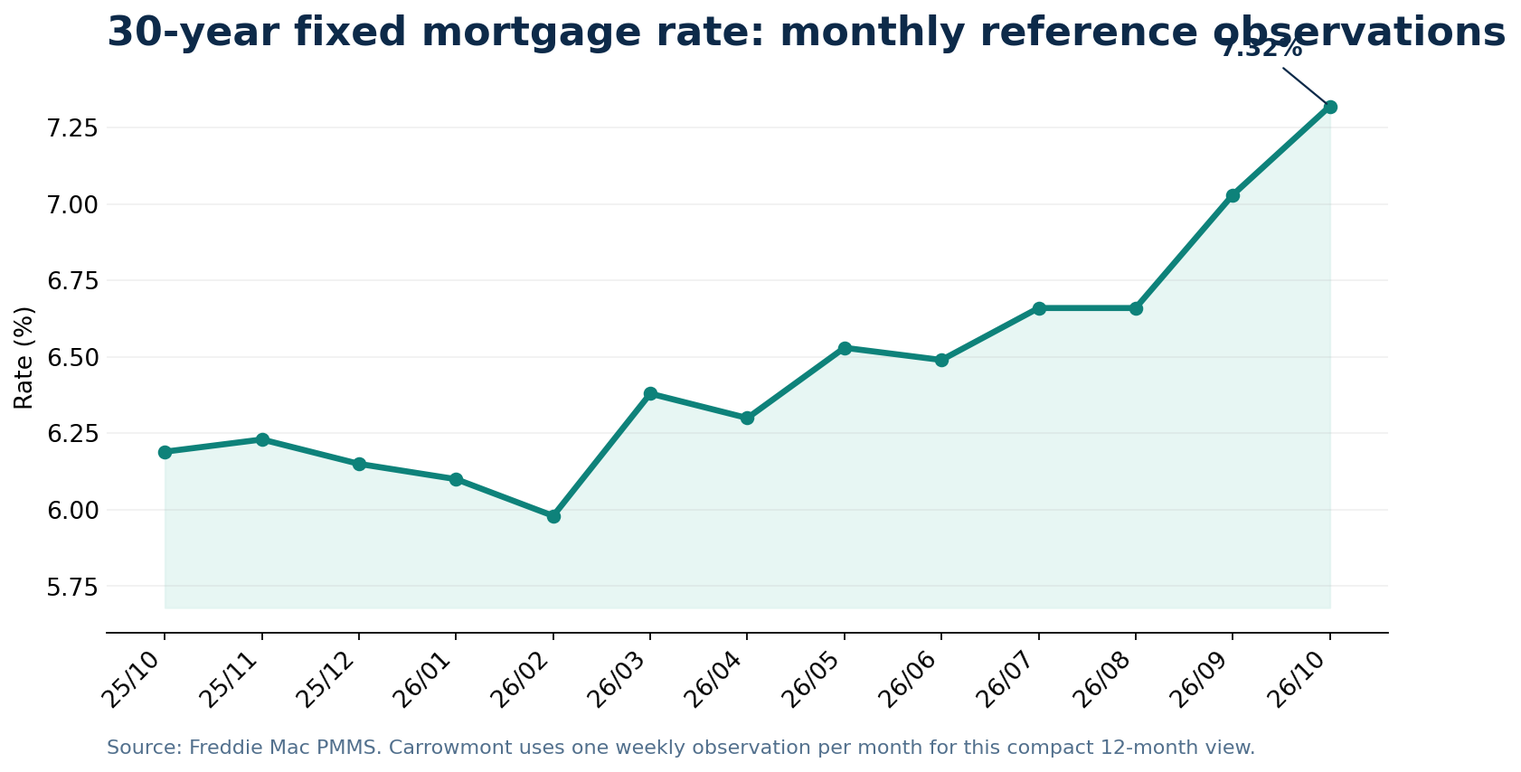
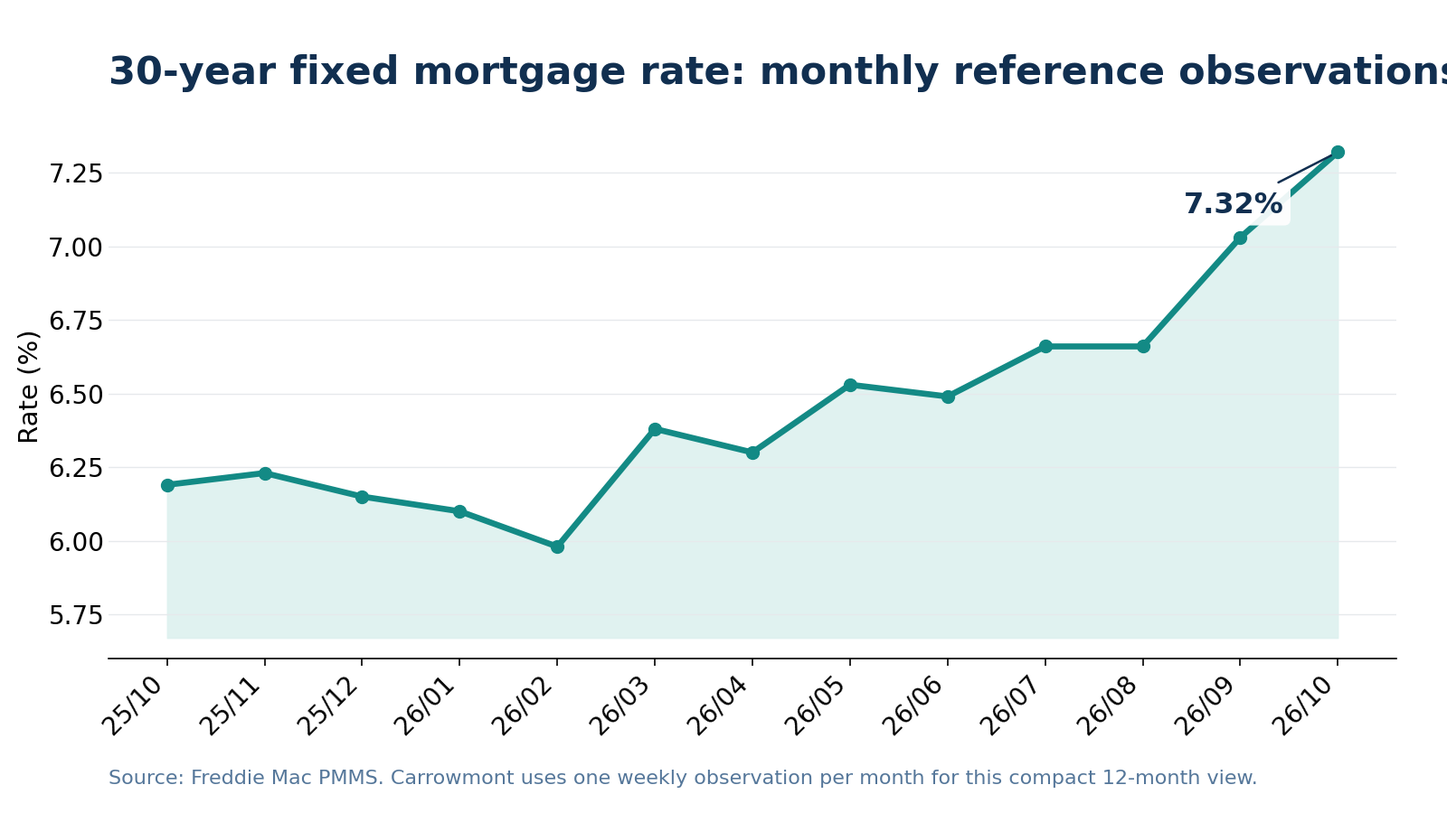
Polish TRAFFIC1A mortgage rate chart label

diff --git a/research/mortgage-affordability-monitor.html b/research/mortgage-affordability-monitor.html
@@ -1,1 +1,1 @@
-<!doctype html><html lang="en"><head><meta charset="utf-8"><meta name="viewport" content="width=device-width,initial-scale=1"><title>U.S. Mortgage Affordability Monitor | Carrowmont Research</title><meta name="description" content="See how current U.S. mortgage rates change monthly principal-and-interest payments, with new-home price and household-income context."><meta name="robots" content="index,follow"><link rel="canonical" href="https://carrowmont.com/research/mortgage-affordability-monitor.html"><link rel="icon" href="/favicon.svg" type="image/svg+xml"><meta property="og:site_name" content="Carrowmont"><meta property="og:title" content="U.S. Mortgage Affordability Monitor | Carrowmont Research"><meta property="og:description" content="At 7.32%, a standardized $400,000 30-year mortgage costs about $300 more per month in principal and interest than at the comparable rate a year earlier."><meta property="og:type" content="article"><meta property="og:url" content="https://carrowmont.com/research/mortgage-affordability-monitor.html"><meta property="og:image" content="https://carrowmont.com/assets/research/mortgage-affordability-monitor-payment-pressure.png"><meta property="og:image:width" content="1600"><meta property="og:image:height" content="900"><meta name="twitter:card" content="summary_large_image"><meta property="article:published_time" content="2026-10-23"><meta property="article:modified_time" content="2026-10-23"><link rel="stylesheet" href="/carrowmont.css?v=20261023-traffic1a"><link rel="stylesheet" href="/research.css?v=20261023-traffic1a"><script type="application/ld+json">{"@context":"https://schema.org","@graph":[{"@type":"Article","headline":"U.S. Mortgage Affordability Monitor","description":"A data-led Carrowmont study of mortgage-rate payment sensitivity, new-home prices and household-income context in the United States.","datePublished":"2026-10-23","dateModified":"2026-10-23","author":{"@type":"Organization","name":"Carrowmont","url":"https://carrowmont.com/about.html"},"publisher":{"@type":"Organization","name":"Carrowmont","url":"https://carrowmont.com/"},"mainEntityOfPage":"https://carrowmont.com/research/mortgage-affordability-monitor.html","image":"https://carrowmont.com/assets/research/mortgage-affordability-monitor-payment-pressure.png"},{"@type":"Dataset","name":"Carrowmont U.S. Mortgage Affordability Monitor calculation dataset","description":"Carrowmont-derived payment-sensitivity calculations plus cited U.S. mortgage-rate, new-home-price and household-income reference values.","url":"https://carrowmont.com/research/mortgage-affordability-monitor.html","creator":{"@type":"Organization","name":"Carrowmont"},"dateModified":"2026-10-23","spatialCoverage":"United States","distribution":{"@type":"DataDownload","encodingFormat":"text/csv","contentUrl":"https://carrowmont.com/data/research/mortgage-affordability-monitor.csv"}},{"@type":"BreadcrumbList","itemListElement":[{"@type":"ListItem","position":1,"name":"Carrowmont","item":"https://carrowmont.com/"},{"@type":"ListItem","position":2,"name":"Research","item":"https://carrowmont.com/research.html"},{"@type":"ListItem","position":3,"name":"Mortgage Affordability Monitor","item":"https://carrowmont.com/research/mortgage-affordability-monitor.html"}]}]}</script></head><body class="research-page"><header class="site-header"><div class="shell header-inner"><a class="brand" href="/" aria-label="Carrowmont home"><span class="brand-name">CARROWMONT</span><span class="brand-rule" aria-hidden="true"></span><span class="brand-tagline"><span>Plan today.</span><strong>Build a brighter tomorrow.</strong></span></a><nav class="desktop-nav" aria-label="Primary navigation"><a href="/#plan">Plan</a><a href="/tools.html">Tools</a><a href="/learn.html">Learn</a><a href="/research.html" aria-current="page">Research</a><a href="/methodology.html">Methodology</a><a href="/about.html">About</a><a href="/">Home</a></nav><details class="mobile-nav"><summary aria-label="Open navigation">Menu</summary><div class="mobile-nav-panel"><a href="/#plan">Plan</a><a href="/tools.html">Tools</a><a href="/learn.html">Learn</a><a href="/research.html" aria-current="page">Research</a><a href="/methodology.html">Methodology</a><a href="/about.html">About</a><a href="/">Home</a><a href="/contact.html">Contact</a></div></details></div></header><main><section class="research-hero"><div class="research-shell"><span class="research-kicker">CARROWMONT RESEARCH · UNITED STATES</span><h1>Mortgage Affordability Monitor</h1><p class="research-dek">How much does today's mortgage-rate environment change the monthly payment on the same loan, and how does that compare with recent new-home prices and household income?</p><div class="research-meta"><span><strong>Published:</strong> 23 October 2026</span><span><strong>Mortgage rate:</strong> Freddie Mac PMMS, 22 Oct 2026</span><span><strong>Home price:</strong> Census/HUD, Aug 2026</span><span><strong>Income:</strong> Census 2025</span></div><span class="research-context">United States data · USD · 30-year fixed-rate illustration</span></div></section><section class="research-main"><div class="research-shell"><div class="research-finding">At the current <strong>7.32%</strong> Freddie Mac 30-year fixed reference rate, a standardized <strong>$400,000 mortgage</strong> produces about <strong>$2,748/month</strong> in principal and interest — roughly <strong>$300 more per month</strong> than at the comparable 6.19% rate one year earlier.</div><div class="metric-grid"><div class="metric-card"><span>30-year fixed PMMS</span><strong>7.32%</strong><small>Freddie Mac, 22 Oct 2026</small></div><div class="metric-card"><span>$400k monthly P&amp;I</span><strong>$2,748</strong><small>About 12.3% above the year-ago-rate illustration</small></div><div class="metric-card"><span>Median new-home price</span><strong>$393.7k</strong><small>Census/HUD, Aug 2026</small></div><div class="metric-card"><span>P&amp;I / median gross income</span><strong>29.7%</strong><small>20% down on the median new-home reference; not lender DTI</small></div></div><section class="research-card"><h2>What a one-percentage-point rate move changes</h2><p>A one-point mortgage-rate move changes the payment even when the loan balance is identical. The chart keeps the loan at $400,000 and the term at 30 years so the rate effect stays visible.</p><figure class="research-chart"><img src="/assets/research/mortgage-affordability-monitor-payment-pressure.png" width="1600" height="900" alt="Bar chart showing monthly principal-and-interest payment on a 400,000 dollar 30-year mortgage at 6.19, 6.32, 7.32 and 8.32 percent rates."><figcaption class="research-caption">Carrowmont calculation. Principal and interest only. The current ±1 percentage-point scenarios are sensitivity illustrations, not rate forecasts or lender quotes.</figcaption></figure><div class="research-table-wrap"><table class="research-table"><thead><tr><th>Loan balance</th><th class="num">6.32%</th><th class="num">7.32% current</th><th class="num">8.32%</th></tr></thead><tbody><tr><td>$200,000</td><td class="num">$1,241</td><td class="num"><strong>$1,374</strong></td><td class="num">$1,512</td></tr><tr><td>$300,000</td><td class="num">$1,861</td><td class="num"><strong>$2,061</strong></td><td class="num">$2,269</td></tr><tr><td>$400,000</td><td class="num">$2,481</td><td class="num"><strong>$2,748</strong></td><td class="num">$3,025</td></tr><tr><td>$500,000</td><td class="num">$3,101</td><td class="num"><strong>$3,435</strong></td><td class="num">$3,781</td></tr><tr><td>$750,000</td><td class="num">$4,652</td><td class="num"><strong>$5,152</strong></td><td class="num">$5,671</td></tr></tbody></table></div></section><section class="research-card"><h2>The rate moved more than the home-price reference</h2><p>The current 30-year fixed PMMS reference is 1.13 percentage points above the comparable Freddie Mac observation from 23 October 2025. Separately, Census/HUD reports the August 2026 median new-house sale price at $393,700; its current release shows that figure below the revised August 2025 comparison. The two series measure different things, but together they show why purchase-price changes alone do not describe financing affordability.</p><figure class="research-chart"><img src="/assets/research/mortgage-affordability-monitor-rate-trend.png" width="1600" height="900" alt="Line chart showing monthly reference observations of the Freddie Mac 30-year fixed mortgage rate from October 2025 through October 2026."><figcaption class="research-caption">Freddie Mac PMMS monthly reference observations. One weekly survey observation is shown per month for a compact view.</figcaption></figure><details><summary>Rate data table</summary><div class="research-table-wrap"><table class="research-table"><thead><tr><th>PMMS date</th><th class="num">30-year fixed rate</th></tr></thead><tbody><tr><td>2025-10-23</td><td class="num">6.19%</td></tr><tr><td>2025-11-26</td><td class="num">6.23%</td></tr><tr><td>2025-12-31</td><td class="num">6.15%</td></tr><tr><td>2026-01-29</td><td class="num">6.10%</td></tr><tr><td>2026-02-26</td><td class="num">5.98%</td></tr><tr><td>2026-03-26</td><td class="num">6.38%</td></tr><tr><td>2026-04-30</td><td class="num">6.30%</td></tr><tr><td>2026-05-28</td><td class="num">6.53%</td></tr><tr><td>2026-06-25</td><td class="num">6.49%</td></tr><tr><td>2026-07-30</td><td class="num">6.66%</td></tr><tr><td>2026-08-27</td><td class="num">6.66%</td></tr><tr><td>2026-09-24</td><td class="num">7.03%</td></tr><tr><td>2026-10-22</td><td class="num">7.32%</td></tr></tbody></table></div></details><figure class="research-chart"><img src="/assets/research/mortgage-affordability-monitor-home-price-trend.png" width="1600" height="900" alt="Line chart showing monthly U.S. median sales prices of new houses from September 2025 through August 2026."><figcaption class="research-caption">U.S. Census Bureau / HUD New Residential Sales. Monthly estimates can be revised; Carrowmont uses the latest retrieved series values for this release.</figcaption></figure><details><summary>Home-price data table</summary><div class="research-table-wrap"><table class="research-table"><thead><tr><th>Period</th><th class="num">Median new-home price</th></tr></thead><tbody><tr><td>2025-09</td><td class="num">$416,800</td></tr><tr><td>2025-10</td><td class="num">$404,200</td></tr><tr><td>2025-11</td><td class="num">$402,500</td></tr><tr><td>2025-12</td><td class="num">$429,100</td></tr><tr><td>2026-01</td><td class="num">$416,200</td></tr><tr><td>2026-02</td><td class="num">$412,000</td></tr><tr><td>2026-03</td><td class="num">$398,700</td></tr><tr><td>2026-04</td><td class="num">$415,700</td></tr><tr><td>2026-05</td><td class="num">$414,300</td></tr><tr><td>2026-06</td><td class="num">$406,400</td></tr><tr><td>2026-07</td><td class="num">$392,200</td></tr><tr><td>2026-08</td><td class="num">$393,700</td></tr></tbody></table></div></details></section><section class="research-card"><h2>Median-new-home reference scenario</h2><p>Using the latest $393,700 median new-house sale price, a standardized 20% down payment leaves a $314,960 mortgage. At 7.32% over 30 years, principal and interest are about <strong>$2,164 per month</strong>.</p><p>Against the Census 2025 median household income of $87,460, that P&amp;I-only payment is about <strong>29.7% of gross median monthly household income</strong>.</p><div class="research-callout"><strong>Important:</strong> This is not a lender debt-to-income ratio or qualification threshold. It excludes property tax, homeowners insurance, mortgage insurance, HOA/strata charges, maintenance, closing costs and lender fees. It also compares national medians that do not describe any one household or local housing market.</div></section><section class="research-card"><h2>Use the finding in your own plan</h2><p>The Research monitor keeps the scenario standardized. The Home Affordability Calculator is where you can add your own household cash flow, deposit, rate, term and recurring ownership costs.</p><div class="research-actions"><a class="research-action" href="/home-affordability-calculator.html"><strong>Home Affordability Calculator</strong><span>Model the monthly housing cost that fits your household budget.</span></a><a class="research-action" href="/mortgage-payoff-calculator/refinance-break-even.html"><strong>Refinance Break-Even</strong><span>Compare a current mortgage with a proposed refinance including switching costs.</span></a><a class="research-action" href="/mortgage-payoff-calculator/rate-rise-stress-test.html"><strong>Mortgage Rate Shock</strong><span>Stress-test payment changes and household cash-flow buffer.</span></a></div></section><section class="research-card"><h2>Methodology and sources</h2><p>The payment calculation uses the standard fully amortizing fixed-payment formula over 360 monthly payments. Official reported data and Carrowmont calculations are kept separate.</p><ul class="research-source-list"><li><a href="https://www.freddiemac.com/pmms" target="_blank" rel="noopener">Freddie Mac Primary Mortgage Market Survey (PMMS)</a> — 30-year fixed-rate reference; current observation 22 Oct 2026.</li><li><a href="https://www.census.gov/construction/nrs/current/index.html" target="_blank" rel="noopener">U.S. Census Bureau / HUD New Residential Sales</a> — median sales price of new houses; latest available period Aug 2026.</li><li><a href="https://www.census.gov/library/publications/2026/demo/p60-289.html" target="_blank" rel="noopener">U.S. Census Bureau, Income in the United States: 2025</a> — median household income.</li><li><a href="https://fred.stlouisfed.org/series/MSPNHSUS" target="_blank" rel="noopener">FRED series MSPNHSUS</a> — convenient access to the revised Census/HUD monthly home-price series used for the trend table.</li></ul><div class="research-downloads"><a href="/data/research/mortgage-affordability-monitor.csv" download>Download calculation CSV</a><a class="secondary" href="/data/research/mortgage-affordability-monitor.json" download>Download JSON</a><a class="secondary" href="/assets/research/mortgage-affordability-monitor-payment-pressure.png" download>Download primary chart PNG</a></div><p><a href="/docs/research/mortgage-affordability-monitor-methodology.md">Read the technical methodology</a></p></section><section class="research-card"><h2>Citation and media note</h2><div class="research-citation">Suggested neutral description: “Carrowmont's U.S. Mortgage Affordability Monitor combines Freddie Mac mortgage-rate data, Census/HUD new-home prices and Census household income with standardized 30-year principal-and-interest calculations.”</div><p>For corrections, data questions or media/business enquiries, use the <a href="/contact.html">Carrowmont contact page</a>.</p></section><p style="margin-top:22px"><a href="/research.html">← Back to Carrowmont Research</a></p></div></section></main><footer class="site-footer"><div class="shell footer-grid"><div class="footer-brand"><strong>CARROWMONT</strong><p>Financial Planning, Tools &amp; Learning — practical calculators, research and educational resources for clearer financial decisions.</p></div><div class="footer-col"><strong>Tools</strong><a href="/tools.html">All financial tools</a><a href="/retirement-calculator/">Retirement Planner</a><a href="/home-affordability-calculator.html">Home Affordability</a><a href="/budget-cash-flow-planner/">Budget &amp; Cash Flow</a></div><div class="footer-col"><strong>Carrowmont</strong><a href="/research.html">Research</a><a href="/learn.html">Learn</a><a href="/about.html">About</a><a href="/methodology.html">Methodology</a><a href="/contact.html">Contact</a></div><div class="footer-col"><strong>Legal</strong><a href="/disclaimer.html">Disclaimer</a><a href="/privacy.html">Privacy</a><a href="/terms.html">Terms</a></div></div><div class="shell footer-bottom"><span>© 2026 Carrowmont. Financial planning tools, research and educational information.</span><span>Illustrative estimates, not financial advice.</span></div></footer><script src="/site.js?v=20261023-traffic1a"></script></body></html>
+<!doctype html><html lang="en"><head><meta charset="utf-8"><meta name="viewport" content="width=device-width,initial-scale=1"><title>U.S. Mortgage Affordability Monitor | Carrowmont Research</title><meta name="description" content="See how current U.S. mortgage rates change monthly principal-and-interest payments, with new-home price and household-income context."><meta name="robots" content="index,follow"><link rel="canonical" href="https://carrowmont.com/research/mortgage-affordability-monitor.html"><link rel="icon" href="/favicon.svg" type="image/svg+xml"><meta property="og:site_name" content="Carrowmont"><meta property="og:title" content="U.S. Mortgage Affordability Monitor | Carrowmont Research"><meta property="og:description" content="At 7.32%, a standardized $400,000 30-year mortgage costs about $300 more per month in principal and interest than at the comparable rate a year earlier."><meta property="og:type" content="article"><meta property="og:url" content="https://carrowmont.com/research/mortgage-affordability-monitor.html"><meta property="og:image" content="https://carrowmont.com/assets/research/mortgage-affordability-monitor-payment-pressure.png"><meta property="og:image:width" content="1600"><meta property="og:image:height" content="900"><meta name="twitter:card" content="summary_large_image"><meta property="article:published_time" content="2026-10-23"><meta property="article:modified_time" content="2026-10-23"><link rel="stylesheet" href="/carrowmont.css?v=20261023-traffic1a"><link rel="stylesheet" href="/research.css?v=20261023-traffic1a"><script type="application/ld+json">{"@context":"https://schema.org","@graph":[{"@type":"Article","headline":"U.S. Mortgage Affordability Monitor","description":"A data-led Carrowmont study of mortgage-rate payment sensitivity, new-home prices and household-income context in the United States.","datePublished":"2026-10-23","dateModified":"2026-10-23","author":{"@type":"Organization","name":"Carrowmont","url":"https://carrowmont.com/about.html"},"publisher":{"@type":"Organization","name":"Carrowmont","url":"https://carrowmont.com/"},"mainEntityOfPage":"https://carrowmont.com/research/mortgage-affordability-monitor.html","image":"https://carrowmont.com/assets/research/mortgage-affordability-monitor-payment-pressure.png"},{"@type":"Dataset","name":"Carrowmont U.S. Mortgage Affordability Monitor calculation dataset","description":"Carrowmont-derived payment-sensitivity calculations plus cited U.S. mortgage-rate, new-home-price and household-income reference values.","url":"https://carrowmont.com/research/mortgage-affordability-monitor.html","creator":{"@type":"Organization","name":"Carrowmont"},"dateModified":"2026-10-23","spatialCoverage":"United States","distribution":{"@type":"DataDownload","encodingFormat":"text/csv","contentUrl":"https://carrowmont.com/data/research/mortgage-affordability-monitor.csv"}},{"@type":"BreadcrumbList","itemListElement":[{"@type":"ListItem","position":1,"name":"Carrowmont","item":"https://carrowmont.com/"},{"@type":"ListItem","position":2,"name":"Research","item":"https://carrowmont.com/research.html"},{"@type":"ListItem","position":3,"name":"Mortgage Affordability Monitor","item":"https://carrowmont.com/research/mortgage-affordability-monitor.html"}]}]}</script></head><body class="research-page"><header class="site-header"><div class="shell header-inner"><a class="brand" href="/" aria-label="Carrowmont home"><span class="brand-name">CARROWMONT</span><span class="brand-rule" aria-hidden="true"></span><span class="brand-tagline"><span>Plan today.</span><strong>Build a brighter tomorrow.</strong></span></a><nav class="desktop-nav" aria-label="Primary navigation"><a href="/#plan">Plan</a><a href="/tools.html">Tools</a><a href="/learn.html">Learn</a><a href="/research.html" aria-current="page">Research</a><a href="/methodology.html">Methodology</a><a href="/about.html">About</a><a href="/">Home</a></nav><details class="mobile-nav"><summary aria-label="Open navigation">Menu</summary><div class="mobile-nav-panel"><a href="/#plan">Plan</a><a href="/tools.html">Tools</a><a href="/learn.html">Learn</a><a href="/research.html" aria-current="page">Research</a><a href="/methodology.html">Methodology</a><a href="/about.html">About</a><a href="/">Home</a><a href="/contact.html">Contact</a></div></details></div></header><main><section class="research-hero"><div class="research-shell"><span class="research-kicker">CARROWMONT RESEARCH · UNITED STATES</span><h1>Mortgage Affordability Monitor</h1><p class="research-dek">How much does today's mortgage-rate environment change the monthly payment on the same loan, and how does that compare with recent new-home prices and household income?</p><div class="research-meta"><span><strong>Published:</strong> 23 October 2026</span><span><strong>Mortgage rate:</strong> Freddie Mac PMMS, 22 Oct 2026</span><span><strong>Home price:</strong> Census/HUD, Aug 2026</span><span><strong>Income:</strong> Census 2025</span></div><span class="research-context">United States data · USD · 30-year fixed-rate illustration</span></div></section><section class="research-main"><div class="research-shell"><div class="research-finding">At the current <strong>7.32%</strong> Freddie Mac 30-year fixed reference rate, a standardized <strong>$400,000 mortgage</strong> produces about <strong>$2,748/month</strong> in principal and interest — roughly <strong>$300 more per month</strong> than at the comparable 6.19% rate one year earlier.</div><div class="metric-grid"><div class="metric-card"><span>30-year fixed PMMS</span><strong>7.32%</strong><small>Freddie Mac, 22 Oct 2026</small></div><div class="metric-card"><span>$400k monthly P&amp;I</span><strong>$2,748</strong><small>About 12.3% above the year-ago-rate illustration</small></div><div class="metric-card"><span>Median new-home price</span><strong>$393.7k</strong><small>Census/HUD, Aug 2026</small></div><div class="metric-card"><span>P&amp;I / median gross income</span><strong>29.7%</strong><small>20% down on the median new-home reference; not lender DTI</small></div></div><section class="research-card"><h2>What a one-percentage-point rate move changes</h2><p>A one-point mortgage-rate move changes the payment even when the loan balance is identical. The chart keeps the loan at $400,000 and the term at 30 years so the rate effect stays visible.</p><figure class="research-chart"><img src="/assets/research/mortgage-affordability-monitor-payment-pressure.png" width="1600" height="900" alt="Bar chart showing monthly principal-and-interest payment on a 400,000 dollar 30-year mortgage at 6.19, 6.32, 7.32 and 8.32 percent rates."><figcaption class="research-caption">Carrowmont calculation. Principal and interest only. The current ±1 percentage-point scenarios are sensitivity illustrations, not rate forecasts or lender quotes.</figcaption></figure><div class="research-table-wrap"><table class="research-table"><thead><tr><th>Loan balance</th><th class="num">6.32%</th><th class="num">7.32% current</th><th class="num">8.32%</th></tr></thead><tbody><tr><td>$200,000</td><td class="num">$1,241</td><td class="num"><strong>$1,374</strong></td><td class="num">$1,512</td></tr><tr><td>$300,000</td><td class="num">$1,861</td><td class="num"><strong>$2,061</strong></td><td class="num">$2,269</td></tr><tr><td>$400,000</td><td class="num">$2,481</td><td class="num"><strong>$2,748</strong></td><td class="num">$3,025</td></tr><tr><td>$500,000</td><td class="num">$3,101</td><td class="num"><strong>$3,435</strong></td><td class="num">$3,781</td></tr><tr><td>$750,000</td><td class="num">$4,652</td><td class="num"><strong>$5,152</strong></td><td class="num">$5,671</td></tr></tbody></table></div></section><section class="research-card"><h2>The rate moved more than the home-price reference</h2><p>The current 30-year fixed PMMS reference is 1.13 percentage points above the comparable Freddie Mac observation from 23 October 2025. Separately, Census/HUD reports the August 2026 median new-house sale price at $393,700; its current release shows that figure below the revised August 2025 comparison. The two series measure different things, but together they show why purchase-price changes alone do not describe financing affordability.</p><figure class="research-chart"><img src="/assets/research/mortgage-affordability-monitor-rate-trend.png?v=20261024-chart-label-fix" width="1600" height="900" alt="Line chart showing monthly reference observations of the Freddie Mac 30-year fixed mortgage rate from October 2025 through October 2026."><figcaption class="research-caption">Freddie Mac PMMS monthly reference observations. One weekly survey observation is shown per month for a compact view.</figcaption></figure><details><summary>Rate data table</summary><div class="research-table-wrap"><table class="research-table"><thead><tr><th>PMMS date</th><th class="num">30-year fixed rate</th></tr></thead><tbody><tr><td>2025-10-23</td><td class="num">6.19%</td></tr><tr><td>2025-11-26</td><td class="num">6.23%</td></tr><tr><td>2025-12-31</td><td class="num">6.15%</td></tr><tr><td>2026-01-29</td><td class="num">6.10%</td></tr><tr><td>2026-02-26</td><td class="num">5.98%</td></tr><tr><td>2026-03-26</td><td class="num">6.38%</td></tr><tr><td>2026-04-30</td><td class="num">6.30%</td></tr><tr><td>2026-05-28</td><td class="num">6.53%</td></tr><tr><td>2026-06-25</td><td class="num">6.49%</td></tr><tr><td>2026-07-30</td><td class="num">6.66%</td></tr><tr><td>2026-08-27</td><td class="num">6.66%</td></tr><tr><td>2026-09-24</td><td class="num">7.03%</td></tr><tr><td>2026-10-22</td><td class="num">7.32%</td></tr></tbody></table></div></details><figure class="research-chart"><img src="/assets/research/mortgage-affordability-monitor-home-price-trend.png" width="1600" height="900" alt="Line chart showing monthly U.S. median sales prices of new houses from September 2025 through August 2026."><figcaption class="research-caption">U.S. Census Bureau / HUD New Residential Sales. Monthly estimates can be revised; Carrowmont uses the latest retrieved series values for this release.</figcaption></figure><details><summary>Home-price data table</summary><div class="research-table-wrap"><table class="research-table"><thead><tr><th>Period</th><th class="num">Median new-home price</th></tr></thead><tbody><tr><td>2025-09</td><td class="num">$416,800</td></tr><tr><td>2025-10</td><td class="num">$404,200</td></tr><tr><td>2025-11</td><td class="num">$402,500</td></tr><tr><td>2025-12</td><td class="num">$429,100</td></tr><tr><td>2026-01</td><td class="num">$416,200</td></tr><tr><td>2026-02</td><td class="num">$412,000</td></tr><tr><td>2026-03</td><td class="num">$398,700</td></tr><tr><td>2026-04</td><td class="num">$415,700</td></tr><tr><td>2026-05</td><td class="num">$414,300</td></tr><tr><td>2026-06</td><td class="num">$406,400</td></tr><tr><td>2026-07</td><td class="num">$392,200</td></tr><tr><td>2026-08</td><td class="num">$393,700</td></tr></tbody></table></div></details></section><section class="research-card"><h2>Median-new-home reference scenario</h2><p>Using the latest $393,700 median new-house sale price, a standardized 20% down payment leaves a $314,960 mortgage. At 7.32% over 30 years, principal and interest are about <strong>$2,164 per month</strong>.</p><p>Against the Census 2025 median household income of $87,460, that P&amp;I-only payment is about <strong>29.7% of gross median monthly household income</strong>.</p><div class="research-callout"><strong>Important:</strong> This is not a lender debt-to-income ratio or qualification threshold. It excludes property tax, homeowners insurance, mortgage insurance, HOA/strata charges, maintenance, closing costs and lender fees. It also compares national medians that do not describe any one household or local housing market.</div></section><section class="research-card"><h2>Use the finding in your own plan</h2><p>The Research monitor keeps the scenario standardized. The Home Affordability Calculator is where you can add your own household cash flow, deposit, rate, term and recurring ownership costs.</p><div class="research-actions"><a class="research-action" href="/home-affordability-calculator.html"><strong>Home Affordability Calculator</strong><span>Model the monthly housing cost that fits your household budget.</span></a><a class="research-action" href="/mortgage-payoff-calculator/refinance-break-even.html"><strong>Refinance Break-Even</strong><span>Compare a current mortgage with a proposed refinance including switching costs.</span></a><a class="research-action" href="/mortgage-payoff-calculator/rate-rise-stress-test.html"><strong>Mortgage Rate Shock</strong><span>Stress-test payment changes and household cash-flow buffer.</span></a></div></section><section class="research-card"><h2>Methodology and sources</h2><p>The payment calculation uses the standard fully amortizing fixed-payment formula over 360 monthly payments. Official reported data and Carrowmont calculations are kept separate.</p><ul class="research-source-list"><li><a href="https://www.freddiemac.com/pmms" target="_blank" rel="noopener">Freddie Mac Primary Mortgage Market Survey (PMMS)</a> — 30-year fixed-rate reference; current observation 22 Oct 2026.</li><li><a href="https://www.census.gov/construction/nrs/current/index.html" target="_blank" rel="noopener">U.S. Census Bureau / HUD New Residential Sales</a> — median sales price of new houses; latest available period Aug 2026.</li><li><a href="https://www.census.gov/library/publications/2026/demo/p60-289.html" target="_blank" rel="noopener">U.S. Census Bureau, Income in the United States: 2025</a> — median household income.</li><li><a href="https://fred.stlouisfed.org/series/MSPNHSUS" target="_blank" rel="noopener">FRED series MSPNHSUS</a> — convenient access to the revised Census/HUD monthly home-price series used for the trend table.</li></ul><div class="research-downloads"><a href="/data/research/mortgage-affordability-monitor.csv" download>Download calculation CSV</a><a class="secondary" href="/data/research/mortgage-affordability-monitor.json" download>Download JSON</a><a class="secondary" href="/assets/research/mortgage-affordability-monitor-payment-pressure.png" download>Download primary chart PNG</a></div><p><a href="/docs/research/mortgage-affordability-monitor-methodology.md">Read the technical methodology</a></p></section><section class="research-card"><h2>Citation and media note</h2><div class="research-citation">Suggested neutral description: “Carrowmont's U.S. Mortgage Affordability Monitor combines Freddie Mac mortgage-rate data, Census/HUD new-home prices and Census household income with standardized 30-year principal-and-interest calculations.”</div><p>For corrections, data questions or media/business enquiries, use the <a href="/contact.html">Carrowmont contact page</a>.</p></section><p style="margin-top:22px"><a href="/research.html">← Back to Carrowmont Research</a></p></div></section></main><footer class="site-footer"><div class="shell footer-grid"><div class="footer-brand"><strong>CARROWMONT</strong><p>Financial Planning, Tools &amp; Learning — practical calculators, research and educational resources for clearer financial decisions.</p></div><div class="footer-col"><strong>Tools</strong><a href="/tools.html">All financial tools</a><a href="/retirement-calculator/">Retirement Planner</a><a href="/home-affordability-calculator.html">Home Affordability</a><a href="/budget-cash-flow-planner/">Budget &amp; Cash Flow</a></div><div class="footer-col"><strong>Carrowmont</strong><a href="/research.html">Research</a><a href="/learn.html">Learn</a><a href="/about.html">About</a><a href="/methodology.html">Methodology</a><a href="/contact.html">Contact</a></div><div class="footer-col"><strong>Legal</strong><a href="/disclaimer.html">Disclaimer</a><a href="/privacy.html">Privacy</a><a href="/terms.html">Terms</a></div></div><div class="shell footer-bottom"><span>© 2026 Carrowmont. Financial planning tools, research and educational information.</span><span>Illustrative estimates, not financial advice.</span></div></footer><script src="/site.js?v=20261023-traffic1a"></script></body></html>
